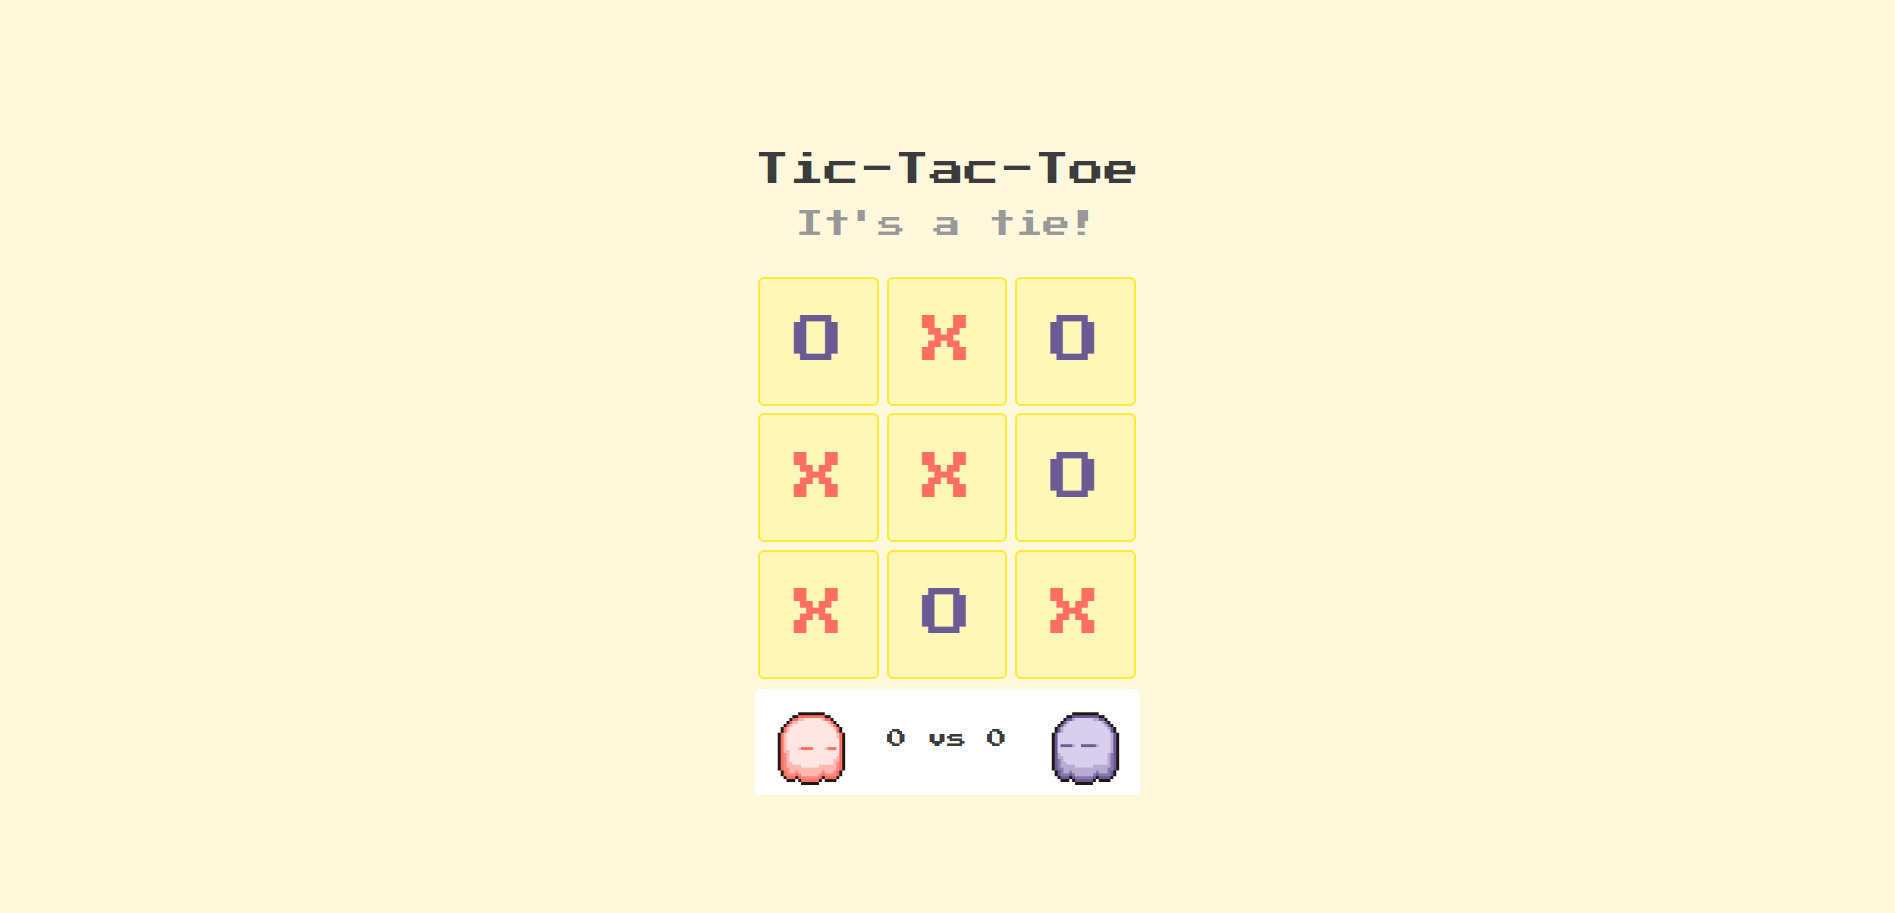
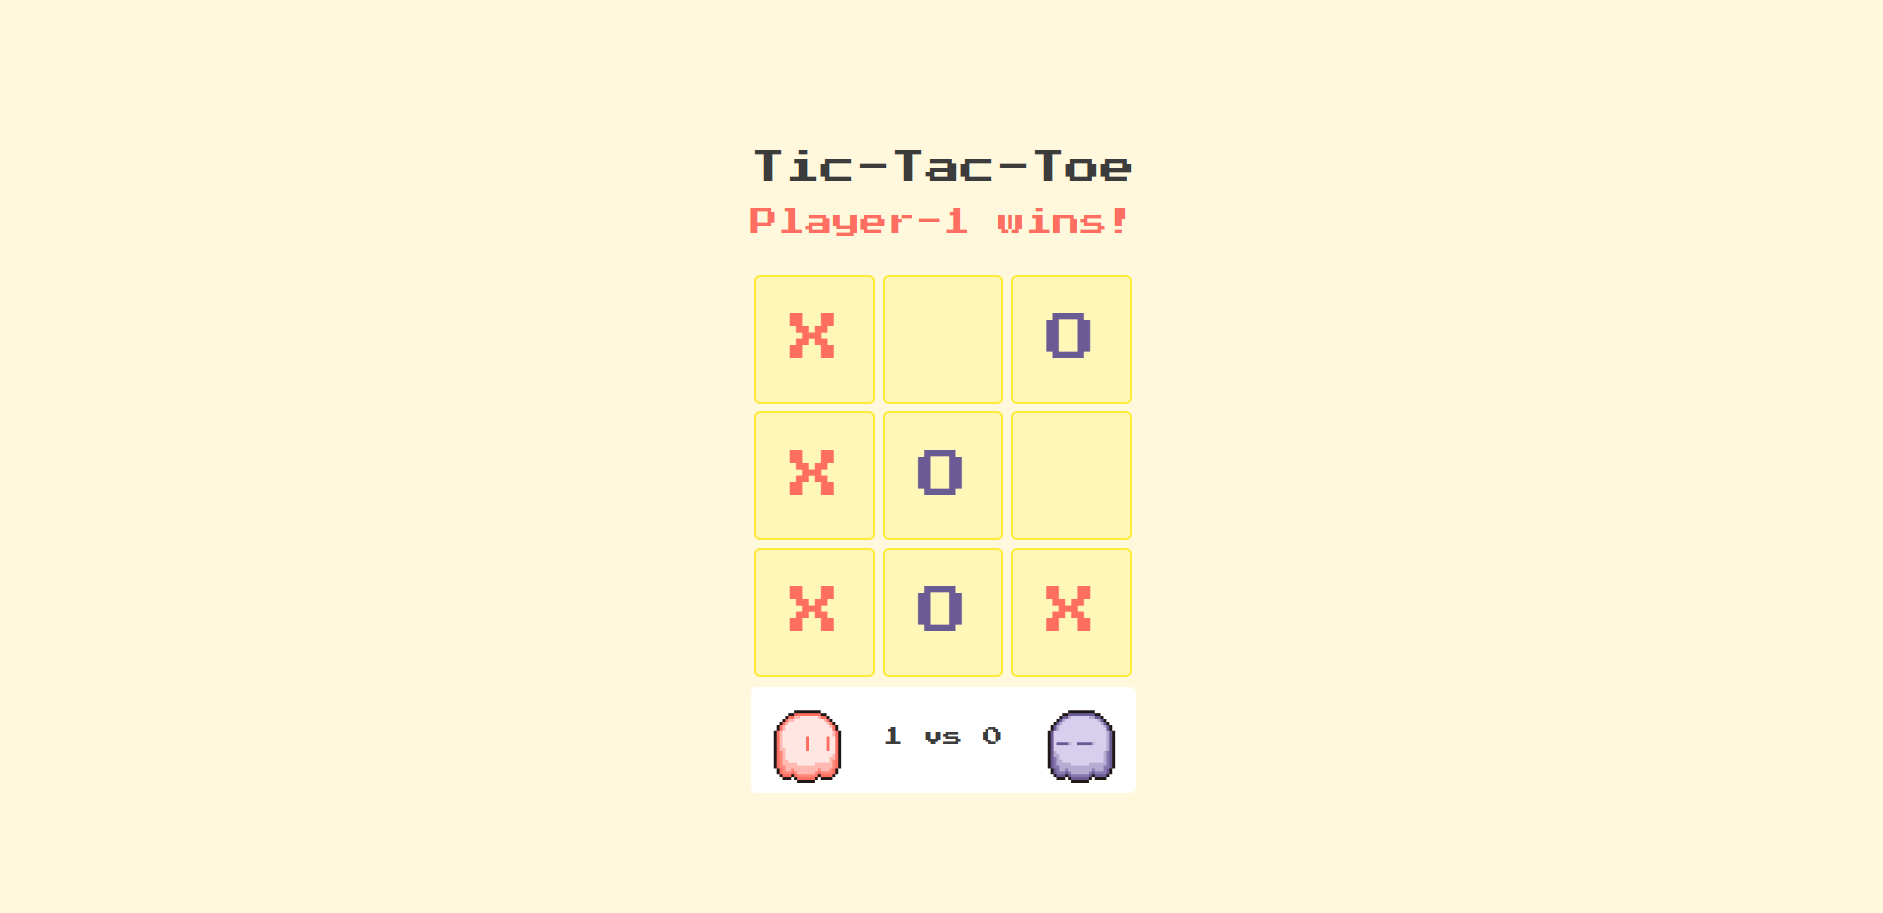
script update commit

Changed region(s): [[0.4004, 0.1533, 0.616, 0.8587], [0.4004, 0.644, 0.4312, 0.6747], [0.4004, 0.4907, 0.4312, 0.5214]]

diff --git a/script/script-computer.js b/script/script-computer.js
@@ -177,13 +177,13 @@ function checkWin(currentPlayer, gameboard) {
             gameboard[b] === gameboard[c]
         ) {
             if(currentPlayer === 'X') {
-                winText.textContent = "Player-1 wins!";
+                winText.textContent = "You win!";
                 winText.style.color = "#FF6F61";
                 scoreText.textContent = "1 vs 0";
                 player1avatar.src = "../assets/player1win.png";
             }
             else {
-                winText.textContent = "Player-2 wins!";
+                winText.textContent = "Computer wins!";
                 winText.style.color = "#6B5B95";
                 scoreText.textContent = "0 vs 1";
                 player2avatar.src = "../assets/player2win.png";
